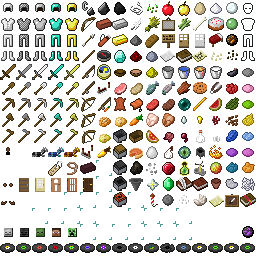
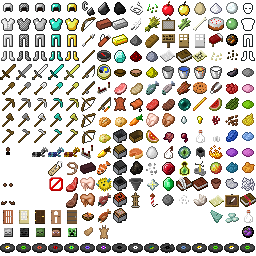
Raw/Cooked Mutton
Also replaced item atlas with TU31's item atlas, and made item ids match java.

Changed region(s): [[0.0, 0.625, 0.5, 0.9375], [0.8125, 0.8125, 1.0, 0.875], [0.5, 0.75, 0.5625, 0.8125]]

diff --git a/Minecraft.World/Item.cpp b/Minecraft.World/Item.cpp
@@ -257,6 +257,8 @@ Item* Item::door_jungle = nullptr;
 Item* Item::door_acacia = nullptr;
 Item* Item::door_dark = nullptr;
 
+Item* Item::mutton_raw = nullptr;
+Item* Item::mutton_cooked = nullptr;
 
 void Item::staticCtor()
 {
@@ -500,11 +502,15 @@ void Item::staticCtor()
 	Item::horseArmorDiamond = (new Item(163))														->setIconName(L"diamond_horse_armor")->setMaxStackSize(1)->setDescriptionId(IDS_ITEM_DIAMOND_HORSE_ARMOR)->setUseDescriptionId(IDS_DESC_DIAMOND_HORSE_ARMOR);
 	Item::lead = (new LeashItem(164))																->setBaseItemTypeAndMaterial(eBaseItemType_pockettool,	eMaterial_undefined)->setIconName(L"lead")->setDescriptionId(IDS_ITEM_LEAD)->setUseDescriptionId(IDS_DESC_LEAD);
 	Item::nameTag = (new NameTagItem(165))															->setIconName(L"name_tag")->setDescriptionId(IDS_ITEM_NAME_TAG)->setUseDescriptionId(IDS_DESC_NAME_TAG);
-	Item::door_spruce = (new DoorItem(166, Material::wood, L"doorSpruce"))->setBaseItemTypeAndMaterial(eBaseItemType_door, eMaterial_wood)->setIconName(L"doorSpruce")->setDescriptionId(IDS_ITEM_DOOR_SPRUCE)->setUseDescriptionId(IDS_DESC_DOOR_WOOD);
-	Item::door_birch = (new DoorItem(167, Material::wood, L"doorBirch"))->setBaseItemTypeAndMaterial(eBaseItemType_door, eMaterial_wood)->setIconName(L"doorBirch")->setDescriptionId(IDS_ITEM_DOOR_BIRCH)->setUseDescriptionId(IDS_DESC_DOOR_WOOD);
-	Item::door_jungle = (new DoorItem(168, Material::wood, L"doorJungle"))->setBaseItemTypeAndMaterial(eBaseItemType_door, eMaterial_wood)->setIconName(L"doorJungle")->setDescriptionId(IDS_ITEM_DOOR_JUNGLE)->setUseDescriptionId(IDS_DESC_DOOR_WOOD);
-	Item::door_acacia = (new DoorItem(169, Material::wood, L"doorAcacia"))->setBaseItemTypeAndMaterial(eBaseItemType_door, eMaterial_wood)->setIconName(L"doorAcacia")->setDescriptionId(IDS_ITEM_DOOR_ACACIA)->setUseDescriptionId(IDS_DESC_DOOR_WOOD);
-	Item::door_dark = (new DoorItem(170, Material::wood, L"doorDark"))->setBaseItemTypeAndMaterial(eBaseItemType_door, eMaterial_wood)->setIconName(L"doorDark")->setDescriptionId(IDS_ITEM_DOOR_DARK)->setUseDescriptionId(IDS_DESC_DOOR_WOOD);
+
+	Item::mutton_raw = (new FoodItem(167, 2, FoodConstants::FOOD_SATURATION_LOW, true))->setIconName(L"muttonRaw")->setDescriptionId(IDS_ITEM_BEEF_RAW)->setUseDescriptionId(IDS_DESC_BEEF_RAW);
+	Item::mutton_cooked = (new FoodItem(168, 8, FoodConstants::FOOD_SATURATION_NORMAL, true))->setIconName(L"muttonCooked")->setDescriptionId(IDS_ITEM_BEEF_COOKED)->setUseDescriptionId(IDS_DESC_BEEF_COOKED);
+
+	Item::door_spruce = (new DoorItem(171, Material::wood, L"doorSpruce"))->setBaseItemTypeAndMaterial(eBaseItemType_door, eMaterial_wood)->setIconName(L"doorSpruce")->setDescriptionId(IDS_ITEM_DOOR_SPRUCE)->setUseDescriptionId(IDS_DESC_DOOR_WOOD);
+	Item::door_birch = (new DoorItem(172, Material::wood, L"doorBirch"))->setBaseItemTypeAndMaterial(eBaseItemType_door, eMaterial_wood)->setIconName(L"doorBirch")->setDescriptionId(IDS_ITEM_DOOR_BIRCH)->setUseDescriptionId(IDS_DESC_DOOR_WOOD);
+	Item::door_jungle = (new DoorItem(173, Material::wood, L"doorJungle"))->setBaseItemTypeAndMaterial(eBaseItemType_door, eMaterial_wood)->setIconName(L"doorJungle")->setDescriptionId(IDS_ITEM_DOOR_JUNGLE)->setUseDescriptionId(IDS_DESC_DOOR_WOOD);
+	Item::door_acacia = (new DoorItem(174, Material::wood, L"doorAcacia"))->setBaseItemTypeAndMaterial(eBaseItemType_door, eMaterial_wood)->setIconName(L"doorAcacia")->setDescriptionId(IDS_ITEM_DOOR_ACACIA)->setUseDescriptionId(IDS_DESC_DOOR_WOOD);
+	Item::door_dark = (new DoorItem(175, Material::wood, L"doorDark"))->setBaseItemTypeAndMaterial(eBaseItemType_door, eMaterial_wood)->setIconName(L"doorDark")->setDescriptionId(IDS_ITEM_DOOR_DARK)->setUseDescriptionId(IDS_DESC_DOOR_WOOD);
 }
 
 

diff --git a/Minecraft.Client/PreStitchedTextureMap.cpp b/Minecraft.Client/PreStitchedTextureMap.cpp
@@ -522,11 +522,7 @@ void PreStitchedTextureMap::loadUVs()
 		ADD_ICON(10,	15,	L"dyePowder_orange")
 
 		ADD_ICON(11,	0,	L"leggingsCloth_overlay")
-		ADD_ICON(11,	1,	L"doorSpruce")
-		ADD_ICON(11,	2,	L"doorBirch")
-		ADD_ICON(11,	3,	L"doorJungle")
-		ADD_ICON(11,	4,	L"doorAcacia")
-		ADD_ICON(11,	5,	L"doorDark")
+		ADD_ICON(11,	4,  L"muttonRaw")
 		//ADD_ICON(11,	6,	L"unused")
 		ADD_ICON(11,	7,	L"minecart_hopper")
 		ADD_ICON(11,	8,	L"hopper")
@@ -542,7 +538,7 @@ void PreStitchedTextureMap::loadUVs()
 		//ADD_ICON(12,	1,	L"unused")
 		//ADD_ICON(12,	2,	L"unused")
 		//ADD_ICON(12,	3,	L"unused")
-		//ADD_ICON(12,	4,	L"unused")
+		ADD_ICON(12,	4,	L"muttonCooked")
 		//ADD_ICON(12,	5,	L"unused")
 		//ADD_ICON(12,	6,	L"unused")
 		ADD_ICON(12,	7,	L"minecart_tnt")
@@ -554,6 +550,13 @@ void PreStitchedTextureMap::loadUVs()
 		ADD_ICON(12,	13,	L"map_empty")
 		ADD_ICON(12,	14,	L"frame")
 		ADD_ICON(12,	15,	L"enchantedBook")
+
+		ADD_ICON(13, 0, L"doorAcacia")
+		ADD_ICON(13, 1, L"doorBirch")
+		ADD_ICON(13, 2, L"doorDark")
+		ADD_ICON(13, 3, L"doorJungle")
+		ADD_ICON(13, 4, L"doorSpruce")
+		
 
 		ADD_ICON(14,	0,	L"skull_skeleton")
 		ADD_ICON(14,	1,	L"skull_wither")
@@ -869,7 +872,7 @@ void PreStitchedTextureMap::loadUVs()
 		ADD_ICON(12,	9,	L"carrots_stage_1");
 		ADD_ICON(12,	10,	L"carrots_stage_2");
 		ADD_ICON(12,	11,	L"carrots_stage_3");
-		//ADD_ICON(12,	12,	L"unused");
+		ADD_ICON(12,	12,	L"slime");
 		ADD_ICON(12,	13,	L"water");
 		ADD_ICON_SIZE(12,14,L"water_flow",2,2);
 

diff --git a/Minecraft.World/Item.h b/Minecraft.World/Item.h
@@ -423,6 +423,8 @@ public:
 	static Item* door_acacia;
 	static Item* door_dark;
 
+	static Item* mutton_raw;
+	static Item* mutton_cooked;
 
 	static const int shovel_iron_Id			= 256;
 	static const int pickAxe_iron_Id		= 257;
@@ -629,12 +631,15 @@ public:
 	static const int lead_Id = 420;
 	static const int nameTag_Id = 421;
 
+	static const int mutton_raw_Id = 423;
+	static const int mutton_cooked_Id = 424;
+
 	// TU25
-	static const int door_spruce_Id = 422;
-	static const int door_birch_Id = 423;
-	static const int door_jungle_Id = 424;
-	static const int door_acacia_Id = 425;
-	static const int door_dark_Id = 426;
+	static const int door_spruce_Id = 427;
+	static const int door_birch_Id = 428;
+	static const int door_jungle_Id = 429;
+	static const int door_acacia_Id = 430;
+	static const int door_dark_Id = 431;
 
 public:
 	const int id;

diff --git a/Minecraft.World/Sheep.cpp b/Minecraft.World/Sheep.cpp
@@ -110,6 +110,20 @@ void Sheep::dropDeathLoot(bool wasKilledByPlayer, int playerBonusLevel)
 		// killing a non-sheared sheep will drop a single block of cloth
 		spawnAtLocation(std::make_shared<ItemInstance>(Tile::wool_Id, 1, getColor()), 0.0f);
 	}
+
+	int count = random->nextInt(2) + 1 + random->nextInt(1 + playerBonusLevel);
+
+	for (int i = 0; i < count; i++)
+	{
+		if (isOnFire())
+		{
+			spawnAtLocation(Item::mutton_cooked_Id, 1);
+		}
+		else
+		{
+			spawnAtLocation(Item::mutton_raw_Id, 1);
+		}
+	}
 }
 
 int Sheep::getDeathLoot()

diff --git a/Minecraft.Client/Common/UI/IUIScene_CreativeMenu.cpp b/Minecraft.Client/Common/UI/IUIScene_CreativeMenu.cpp
@@ -471,6 +471,8 @@ void IUIScene_CreativeMenu::staticCtor()
 		ITEM(Item::beef_raw_Id)
 		ITEM(Item::chicken_raw_Id)
 		ITEM(Item::chicken_cooked_Id)
+		ITEM(Item::mutton_raw_Id)
+		ITEM(Item::mutton_cooked_Id)
 		ITEM(Item::rotten_flesh_Id)
 		ITEM(Item::spiderEye_Id)
 		ITEM(Item::potato_Id)
